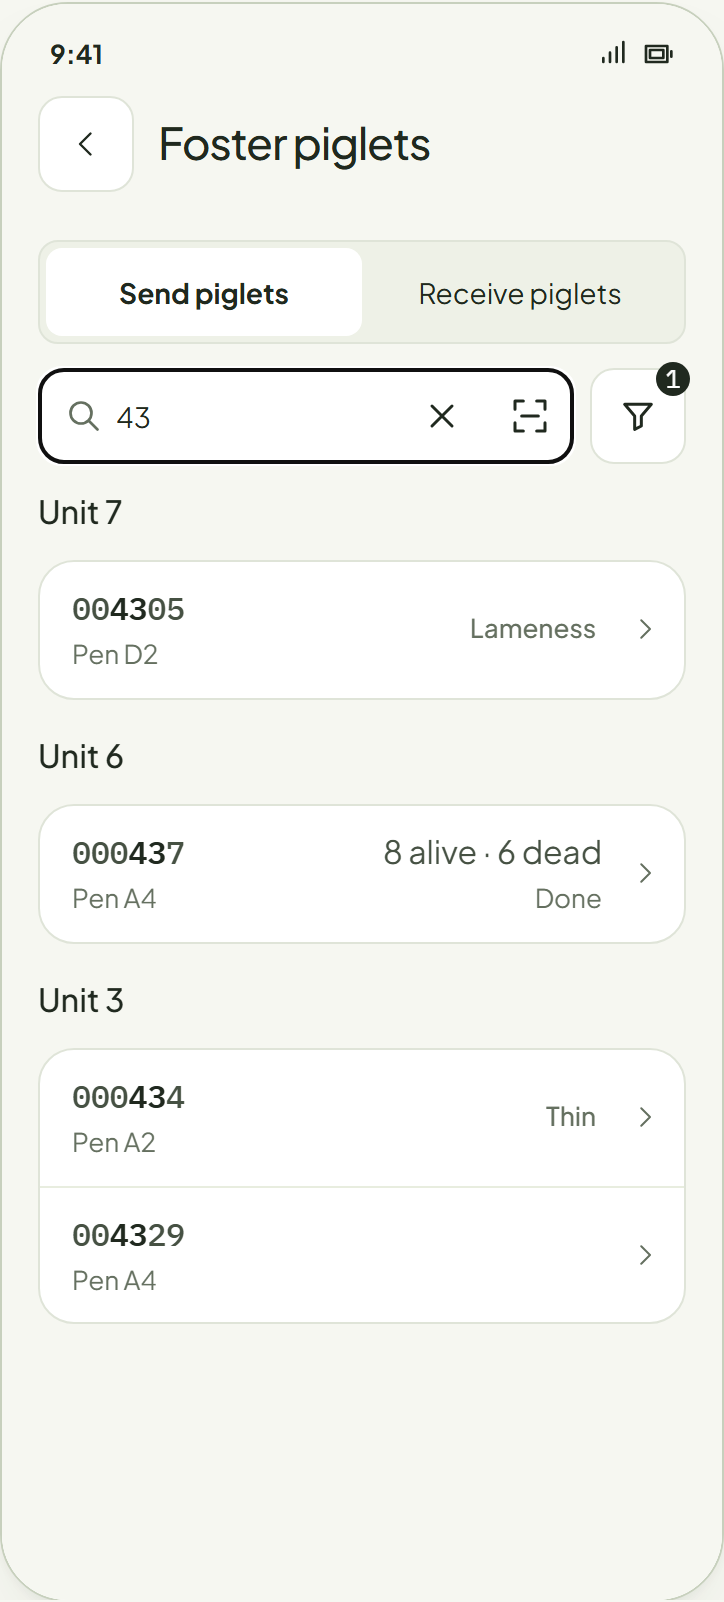
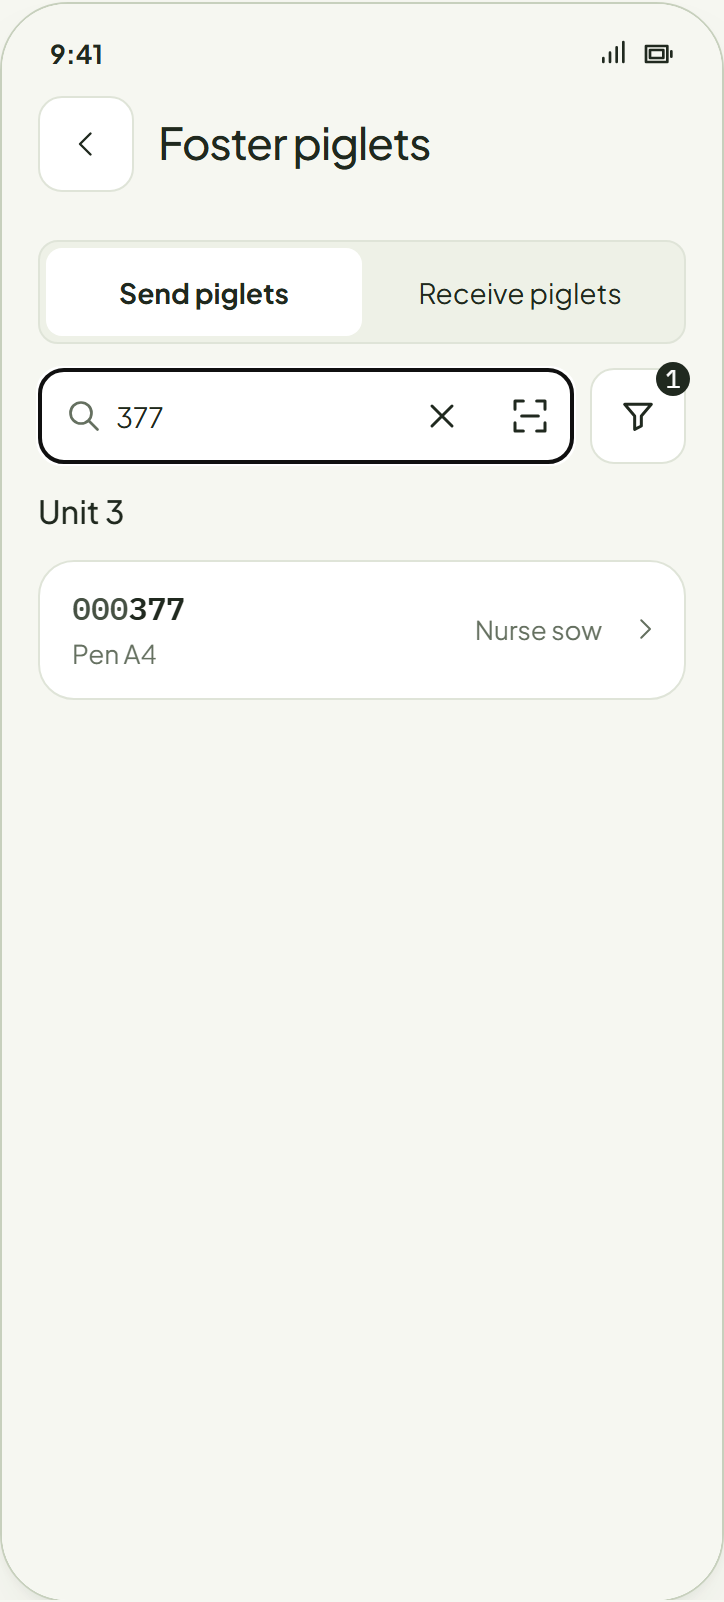
Foster: search and scan reach only sows that can take piglets (nursing a litter, or a nurse sow who has just weaned hers); a read of any other says "<tag> can't take piglets" and opens nothing

diff --git a/ux/system/farrowing-astra-concept.js b/ux/system/farrowing-astra-concept.js
@@ -166,7 +166,8 @@ function act(s,a,v){
  if(a==='fosterIdScanStop'){s.fosterDraft.idScan=false;s.fosterDraft.idRead='';}
  if(a==='fosterIdClear')s.fosterDraft.idQ='';
  if(a==='fosterClose')s.fosterDraft.target='';
- if(a==='fosterScan'){s.fosterDraft.scanning=roomContext(s).scan.connected?true:'waiting';s.fosterDraft.q='';}
+ if(a==='fosterScan'){s.fosterDraft.scanning=roomContext(s).scan.connected?true:'waiting';s.fosterDraft.q='';s.fosterDraft.refused='';}
+ if(a==='fosterRead'){const f=s.fosterDraft;if(fosterSow(s,v)&&v!==s.tag){f.refused='';act(s,'fosterPick',v);}else f.refused=v;}   // a reader read: a sow who can take piglets opens; any other says why
  if(a==='fosterScanStop')s.fosterDraft.scanning=false;
  if(a==='fosterClear')s.fosterDraft.q='';
  if(a==='fosterCount'){const f=s.fosterDraft;f.count=Math.max(0,Math.min(fosterMax(s),f.count+Number(v)));}
@@ -1154,8 +1155,11 @@ function allocPreset(i,p){
  if(p==='piglets-pen')act(s,'allocToPen');
 }
 function fosterCandidates(s){const c=roomContext(s);return c.units.flatMap(unit=>unit.records.filter(r=>r!==s&&onList(r)&&!r.ended&&!r.productionOutcome&&born(r)>0).map(r=>({r,unit})));}
-const fosterSow=(s,tag)=>fosterCandidates(s).find(x=>x.r.tag===tag)?.r||(p=>p&&fosterFarmSow(roomContext(s),p))(farmPigs.find(p=>p.tag===tag&&!p.gone));
-// A pig outside Farrowing found by search (a weaned sow taken as nurse sow): a light record of her own, kept with the room, so a send lands.
+// Sows outside the task that can take piglets: nurse sows, who have just weaned their own litter (owner, 2026-11-03: "that just makes her
+// eligible"). Gilts and pregnant sows have no milk, so search and scan never reach them.
+const nurseSows=[{tag:'000377',unit:'3',pen:'A4',stage:'Weaned'},{tag:'000352',unit:'6',pen:'A3',stage:'Weaned'}];
+const fosterSow=(s,tag)=>fosterCandidates(s).find(x=>x.r.tag===tag)?.r||(p=>p&&fosterFarmSow(roomContext(s),p))(nurseSows.find(p=>p.tag===tag));
+// A nurse sow found by search or scan: a light record of her own, kept with the room, so a send lands.
 const fosterFarmSow=(c,p)=>(c.fosterFarm||={})[p.tag]||=({tag:p.tag,pen:p.pen,stage:p.stage,unit:p.unit,farm:true,locked:true,alive:0,moved:0,unidentified:0,dead:[0,0,0,0,0,0],events:[]});
 const homeUnit=s=>{const c=roomContext(s);return c.units.find(u=>u.records.includes(s))||c.unit;};
 // Fostering's filter is its own (owner, 2026-11-03): only sows that have farrowed can take piglets (the list holds no others), so it asks
@@ -1172,7 +1176,7 @@ const fosterMax=s=>{const src=fosterFrom(s);return src?fosterNoId(src):0;};   //
 // the list on the button (her unit counts: the list opens on it).
 function fosterBar(s,cls=''){
  const f=s.fosterDraft,n=fosterActive(f.filter);
- const bar=f.scanning?SentriUI.scanBar({state:f.scanning==='waiting'?'waiting':'scanning',device:'Reader 1',text:f.scanning==='waiting'?'':'Scan the other sow',stop:{action:'fosterScanStop'}})
+ const bar=f.scanning?SentriUI.scanBar({state:f.scanning==='waiting'?'waiting':'scanning',device:'Reader 1',text:f.scanning==='waiting'?'':f.refused?`${f.refused} can't take piglets`:'Scan the other sow',stop:{action:'fosterScanStop'}})
   :SentriUI.choiceSearch({label:'Search ear tag or pen',placeholder:'Ear tag or pen',value:f.q,attrs:{'data-foster-search':''},clear:{action:'fosterClear'},scan:{action:'fosterScan',label:'Scan ear tag'}});
  const filter=f.scanning?'':SentriUI.iconButton({action:'fosterFilter',icon:icon('filter'),label:'Filter sows'+(n?`, ${n} applied`:''),badge:n||'',className:'batch-filter foster-filter'});
  return `<div class="${cls?cls+' ':''}foster-bar">${bar}${filter}</div>`;
@@ -1198,11 +1202,11 @@ function fosterPage(s){
 function fosterPickList(s){
  const f=s.fosterDraft,g=f.filter,c=roomContext(s),q=f.q.trim().toLowerCase(),home=homeUnit(s),inFilter=(r,u)=>fosterMatch(g,r,u);
  const hit=(r,u)=>q?r.tag.includes(q)||inFilter(r,u)&&r.pen.toLowerCase().includes(q):inFilter(r,u);
- const items=[...fosterCandidates(s).filter(({r,unit})=>hit(r,unit)),...(q?farmPigs.filter(p=>!p.gone).map(p=>({p,unit:farmUnit(c,p.unit),r:fosterFarmSow(c,p)})).filter(({r,unit})=>hit(r,unit)):[])];
+ const items=[...fosterCandidates(s).filter(({r,unit})=>hit(r,unit)),...(q?nurseSows.map(p=>({p,unit:farmUnit(c,p.unit),r:fosterFarmSow(c,p)})).filter(({r,unit})=>hit(r,unit)):[])];
  const where=g.unit==='all'?'':` in ${farmUnit(c,g.unit).name}`;
- if(!items.length)return `<p class="st-find-hint">${q?`No pig matching “${esc(f.q.trim())}”${/^d+$/.test(q)?'':where}.`:`No other sow${fosterFilterCount(s,{...g,unit:home.id})?' matches the filter':' has a litter'}${where}.`}</p>`;
+ if(!items.length)return `<p class="st-find-hint">${q?`No sow that can take piglets matches “${esc(f.q.trim())}”${/^\d+$/.test(q)?'':where}.`:`No other sow${fosterFilterCount(s,{...g,unit:home.id})?' matches the filter':' has a litter'}${where}.`}</p>`;
  const inBatch=u=>c.units.some(x=>x.id===u.id),units=[...new Map(items.map(x=>[x.unit.id,x.unit])).values()].sort((a,b)=>(b.id===home.id)-(a.id===home.id)||inBatch(b)-inBatch(a)||String(a.id).localeCompare(String(b.id),undefined,{numeric:true}));
- const right=x=>{if(x.p)return x.p.cond?{kind:'tags',tags:[{name:x.p.cond,level:'ongoing'}]}:null;const sf=sowFacts(x.r);return {kind:'state',figure:sf.figure,word:sf.word,level:sf.level};};
+ const right=x=>{if(x.p)return {kind:'state',figure:'',word:'Nurse sow',level:'settled'};const sf=sowFacts(x.r);return {kind:'state',figure:sf.figure,word:sf.word,level:sf.level};};
  // Nothing typed: the plain Row · Animal, the tag in ink; typed: Lookup's find row, the typed part marked and the rest muted.
  const row=x=>{const p={code:x.r.tag,place:rowText.pen(x.r.pen),right:right(x),action:'fosterPick',value:x.r.tag};return (q?SentriUI.findRow({...p,query:q}):SentriUI.row({variant:'animal',code:p.code,description:p.place,right:p.right||{kind:'state',figure:'',word:'',level:'settled'},action:p.action,value:p.value})).replace('<button ',`<button data-scan-tag="${x.r.tag}" `);};
  return SentriUI.lookupGroups(units.map(u=>({title:u.name,rows:items.filter(x=>x.unit.id===u.id).sort((a,b)=>a.r.pen.localeCompare(b.r.pen,undefined,{numeric:true})||a.r.tag.localeCompare(b.r.tag)).map(row)})),{variant:'find'});
@@ -1298,7 +1302,7 @@ document.addEventListener('click',e=>{const b=e.target.closest('[data-demo-scan]
  // Foster, scanning: a read opens the count for the sow read (single-action), as tapping her does; the reader connecting starts it.
  if(s.view==='allocPen'&&s.fosterDraft?.penScan){const f=s.fosterDraft;if(f.penScan==='waiting'){c.scan.connected=true;f.penScan=true;render(i);return;}const o=allocPenOptions(s).find(o=>!o[4]);if(o)act(s,'allocPen',o[0]);render(i);return;}   // a plate read moves them there
  if(['fosterSend','pigletList'].includes(s.view)&&s.fosterDraft?.idScan){const f=s.fosterDraft;if(f.idScan==='waiting'){c.scan.connected=true;f.idScan=true;render(i);return;}const next=fosterIds(fosterFrom(s)).find(p=>!f.ids.includes(p.tag));if(next){f.ids.push(next.tag);f.idRead=next.tag;}render(i);return;}   // a read ticks that piglet
- if(fosterPicking(s)&&s.fosterDraft.scanning&&!s.fosterDraft.target){const f=s.fosterDraft;if(f.scanning==='waiting'){c.scan.connected=true;f.scanning=true;render(i);return;}const list=fosterCandidates(s),x=list[f.seq++%list.length];if(x)act(s,'fosterPick',x.r.tag);render(i);return;}
+ if(fosterPicking(s)&&s.fosterDraft.scanning&&!s.fosterDraft.target){const f=s.fosterDraft;if(f.scanning==='waiting'){c.scan.connected=true;f.scanning=true;render(i);return;}if(!f.seq++){act(s,'fosterRead',farmPigs.find(p=>p.stage==='Gestating')?.tag);render(i);return;}const list=fosterCandidates(s),x=list[(f.seq-2)%list.length];if(x)act(s,'fosterRead',x.r.tag);render(i);return;}   // the first read is a pregnant sow
  // Choosing pigs, scanning: a read ticks her and marks her row (a repeat read keeps her ticked); a pig from another unit isn't added (a toast says where she is).
  if(s.view==='roomBatchPick'&&c.batch.scanning){const b=c.batch,tag=b.scanning==='waiting'?'':batchScans[b.seq++%batchScans.length],p=unitPigs(c).find(x=>x.tag===tag);if(b.scanning==='waiting'){c.scan.connected=true;b.scanning=true;render(i);return;}   // the reader connects: scanning starts
   if(p){if(!b.picked.includes(tag))b.picked.push(tag);}else b.missed=[missOf(c,tag),...b.missed.filter(x=>x.tag!==tag)];
